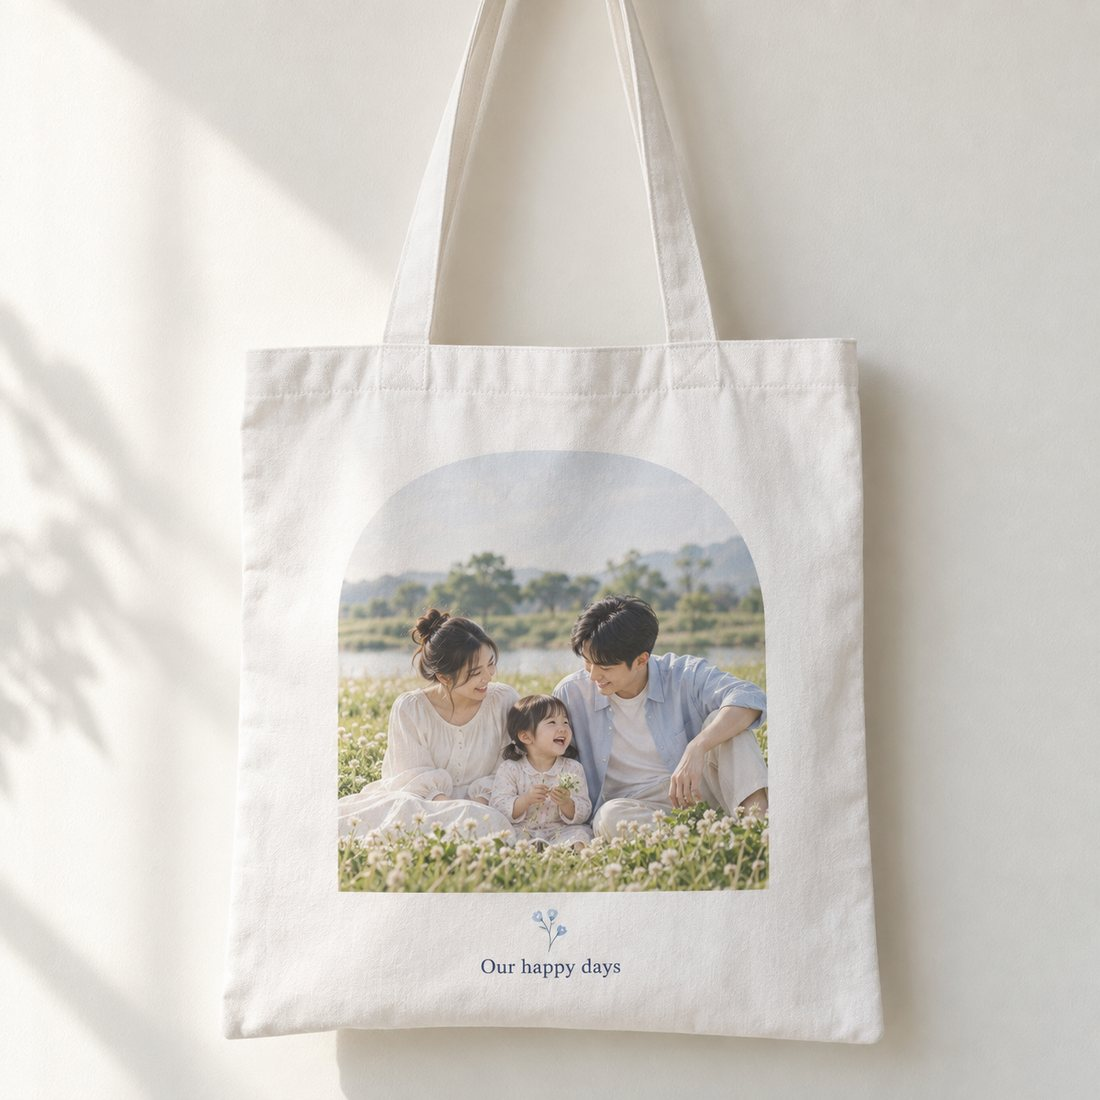
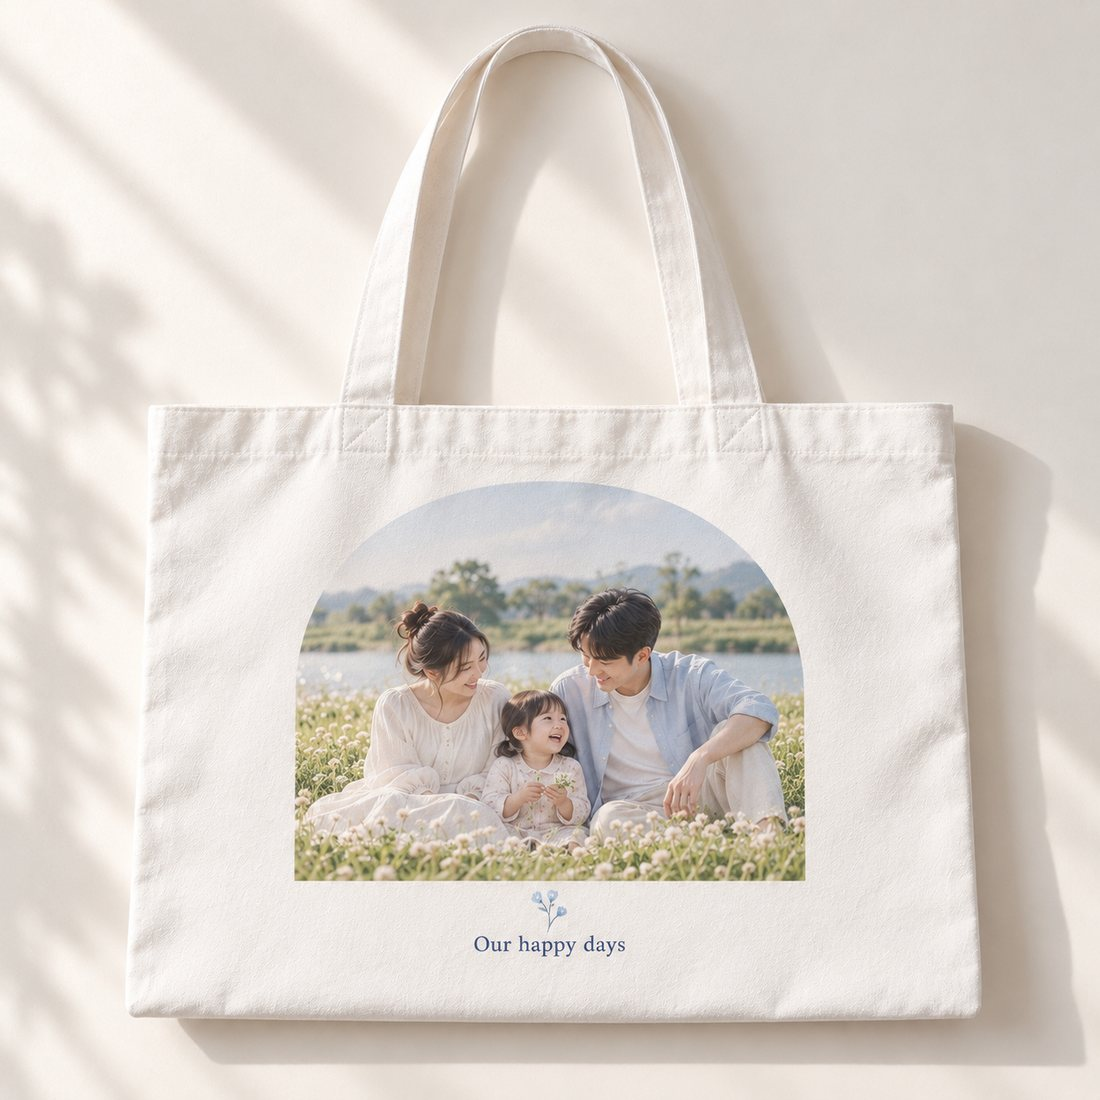
나만의 굿즈 목록의 폰케이스·텀블러 카드 이미지를 실제 제품 사진으로 교체

diff --git a/app/goods/ecobag/page.tsx b/app/goods/ecobag/page.tsx
@@ -1,6 +1,6 @@
 "use client";
 
-import { useMemo, useState } from "react";
+import { useEffect, useMemo, useState } from "react";
 import Link from "next/link";
 import SiteHeader from "@/components/SiteHeader";
 import SiteFooter from "@/components/SiteFooter";
@@ -18,16 +18,24 @@ import { addToCart } from "@/lib/cart";
 
 const PRODUCT_NAME = "에코백";
 
-// 큰 이미지 1개 + 작은 예시 이미지 4개.
-// gallery-2가 3:4 비율 사진이라 나만의 굿즈 목록 카드와 같은 이미지로,
-// 큰 이미지(메인이미지) 자리에 와요.
-const galleryImages = [
-  "/goods/ecobag/gallery-2.jpg",
-  "/goods/ecobag/gallery-1.jpg",
-  "/goods/ecobag/gallery-3.jpg",
-  "/goods/ecobag/gallery-4.jpg",
-  "/goods/ecobag/gallery-5.jpg",
-];
+// 큰 이미지 1개 + 작은 예시 이미지 4개. 가로형/세로형 사진이 서로 달라서
+// 형태를 바꾸면 그 형태의 예시 사진으로 다시 보여줘요.
+const galleryImagesByShape: Record<EcobagShapeId, string[]> = {
+  horizontal: [
+    "/goods/ecobag/gallery-2.jpg",
+    "/goods/ecobag/gallery-1.jpg",
+    "/goods/ecobag/gallery-3.jpg",
+    "/goods/ecobag/gallery-4.jpg",
+    "/goods/ecobag/gallery-5.jpg",
+  ],
+  vertical: [
+    "/goods/ecobag/gallery-v-2.jpg",
+    "/goods/ecobag/gallery-v-1.jpg",
+    "/goods/ecobag/gallery-v-3.jpg",
+    "/goods/ecobag/gallery-v-4.jpg",
+    "/goods/ecobag/gallery-v-5.jpg",
+  ],
+};
 
 // 상세페이지처럼 구매하기 아래에 순서대로 보여줄 제품 설명 이미지예요.
 const detailImages = [
@@ -243,8 +251,10 @@ const productDescription = [
 ];
 
 export default function EcobagPage() {
-  const [orderedImages, setOrderedImages] = useState<string[]>(galleryImages);
   const [shape, setShape] = useState<EcobagShapeId>("horizontal");
+  const [orderedImages, setOrderedImages] = useState<string[]>(
+    galleryImagesByShape.horizontal
+  );
   const [fabric, setFabric] = useState<EcobagFabricId>("cotton10");
   const [addonIds, setAddonIds] = useState<EcobagAddonId[]>([]);
   const [strapColor, setStrapColor] = useState<CaseColor>(caseColorPresets[0]);
@@ -259,6 +269,11 @@ export default function EcobagPage() {
       prev.includes(id) ? prev.filter((a) => a !== id) : [...prev, id]
     );
   }
+
+  // 형태(가로형/세로형)를 바꾸면 큰 이미지 자리를 그 형태의 예시 사진 첫 장으로 되돌려줘요.
+  useEffect(() => {
+    setOrderedImages(galleryImagesByShape[shape]);
+  }, [shape]);
 
   function handleSelectImage(index: number) {
     setOrderedImages((prev) => {
@@ -323,7 +338,7 @@ export default function EcobagPage() {
           <div>
             <div className="aspect-square w-full overflow-hidden bg-[var(--color-hairline)]/20">
               <img
-                src={orderedImages[0] ?? galleryImages[0]}
+                src={orderedImages[0] ?? galleryImagesByShape[shape][0]}
                 alt="사진을 담은 Keepic 에코백"
                 className="h-full w-full object-cover"
               />
